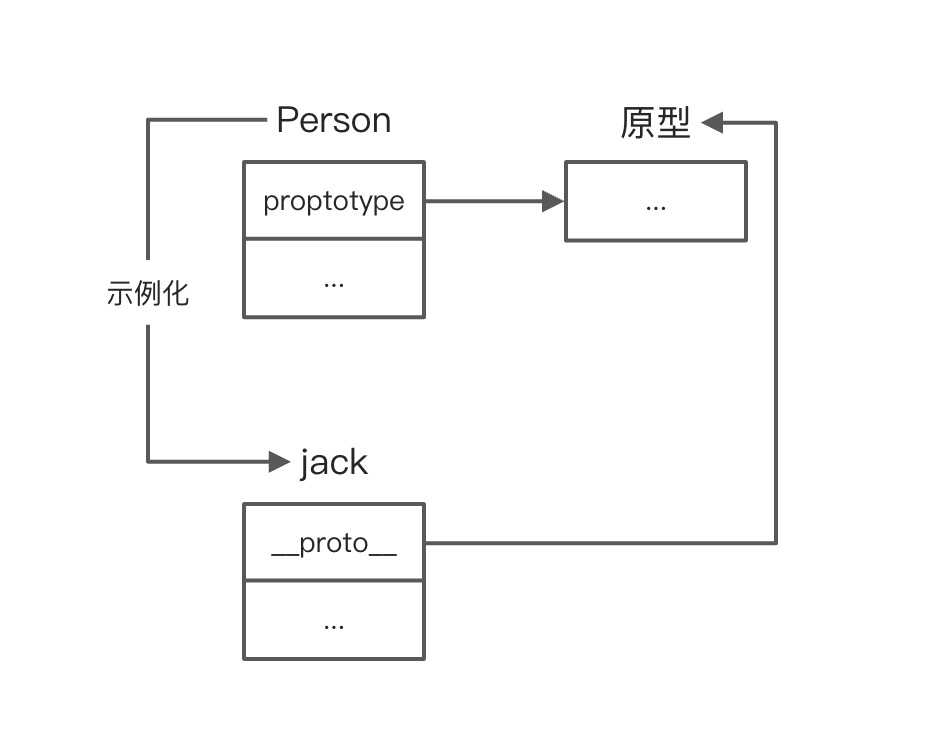
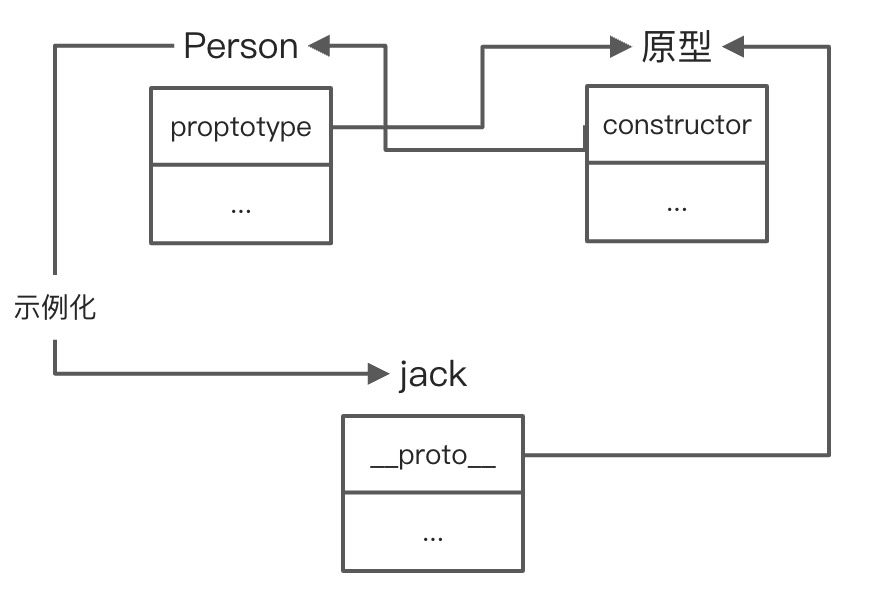
update: 替换原型1.jpg & 调整原型文章格式

Changed region(s): [[0.0619, 0.0301, 0.9599, 0.9632], [0.0, 0.4816, 0.1239, 0.5418]]

diff --git a/articles/javascript/原型.md b/articles/javascript/原型.md
@@ -1,16 +1,16 @@
 # 原型
 
-函数有一个 prototype 属性，指向一个对象。而这个对象中会有一个 constructor 属性，指向该函数。
+函数有一个`prototype`属性，指向一个对象。而这个对象中会有一个`constructor`属性，指向该函数。
 
-```
+```javascript
 function Person() {}
 console.log(Person.prototype) // {constructor: ƒ}
 console.log(Person.prototype.constructor === Person) // true
 ```
 
-当我们把这个函数作为构造函数，来示例化一个对象的时候，其 prototype 属性所指向的对象，会作为示例化对象的原型。示例化对象有一个 __proto__ 属性(部分浏览器支持)，指向其原型。
+当我们把这个函数作为构造函数，来示例化一个对象的时候，其`prototype`属性所指向的对象，会作为示例化对象的原型。示例化对象有一个`__proto__`属性(部分浏览器支持)，指向其原型。
 
-```
+```javascript
 function Person() {}
 const jack = new Person()
 console.log(jack.__proto__ === Person.prototype) // true
@@ -21,34 +21,34 @@ console.log(jack.__proto__ === Person.prototype) // true
 
 ## Object.create()
 
-除了通过构造函数创建对象以外，我们还可以通过 Object.create 方法创建对象。
-Object.create方法接受一个对象或者 null 作为参数。如果参数为有效的对象，那么这个参数对象将作为该方法生成的对象的原型。
+除了通过构造函数创建对象以外，我们还可以通过`Object.create`方法创建对象。
+`Object.create`方法接受一个对象或者`null`作为参数。如果参数为有效的对象，那么这个参数对象将作为该方法生成的对象的原型。
 
-```
+```javascript
 const a = {}
 const b = Object.create(a)
 console.log(b.__proto__ === a) // true
 ```
 
-如果参数为 null，我们可以打印一下看看，对象的原型是什么：
+如果参数为`null`，我们可以打印一下看看，对象的原型是什么：
 
-```
+```javascript
 const a = Object.create(null)
 console.log(a.__proto__)  // undefined
 ```
 
-为啥 Object.create(null) 创建的对象没有原型对象呢？其实，这与 __proto__ 有关，下面会提到。
+为啥`Object.create(null)`创建的对象没有原型对象呢？其实，这与`__proto__`有关，下面会提到。
 
 ## 字面量
 
-我们直接通过字面量定义的对象，它的原型对象有是谁呢？是 Object.prototype。
+我们直接通过字面量定义的对象，它的原型对象有是谁呢？是`Object.prototype`。
 
-```
+```javascript
 const a = {}
 console.log(a.__proto__ === Object.prototype) // true
 ```
 
-其实，通过字面量方式创建空对象，就等同于 Object.create(Object.prototype)。
+其实，通过字面量方式创建空对象，就等同于`Object.create(Object.prototype)`。
 
 ## __proto__
 
